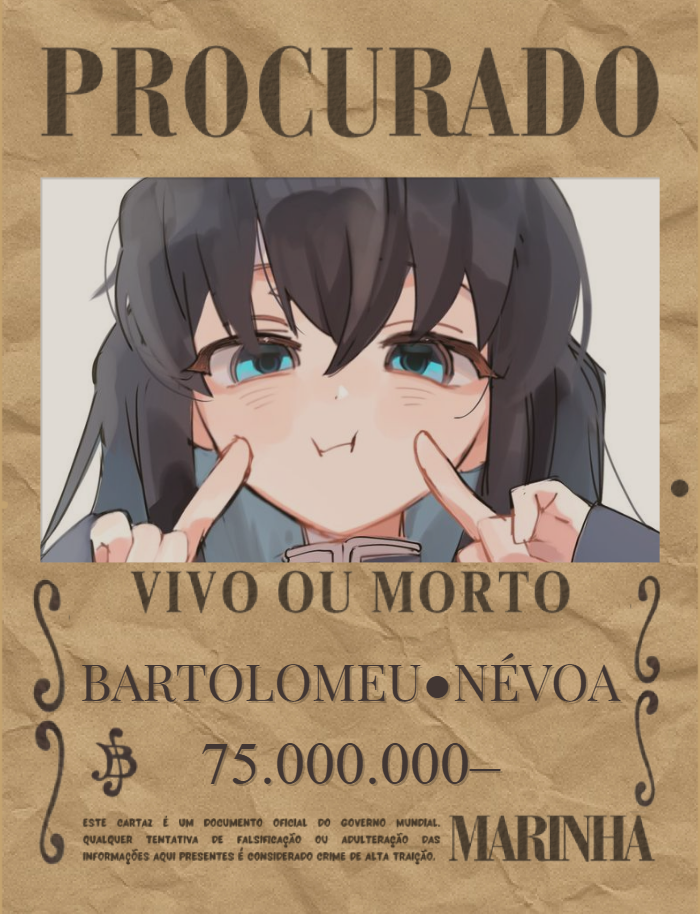
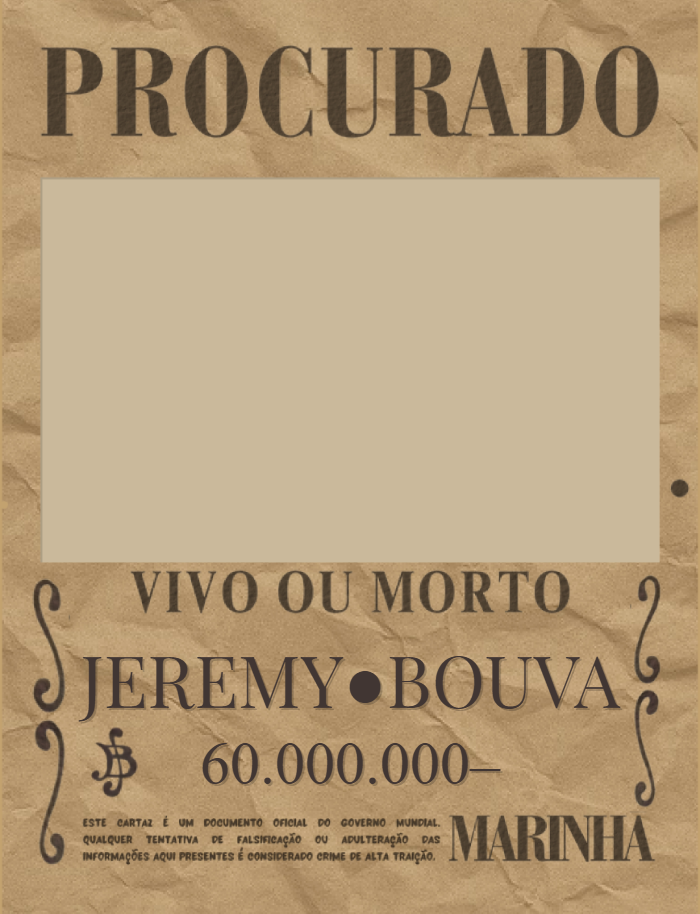
Site

diff --git a/aparencias.html b/aparencias.html
@@ -119,15 +119,6 @@
                     </div>
                     
                     <div class="gallery-item">
-                        <img src="assets\imagens\Personagens\Artur, o Gancho Negro.png" alt="Artur, o Gancho Negro" class="gallery-img">
-                        <div class="gallery-info">
-                            <div class="gallery-title">Artur, o Gancho Negro</div>
-                            <div class="gallery-subtitle"><a href="https://mortalkombat.fandom.com/wiki/Kabal" target="_blank">Kabal</a></div>
-                            <div class="gallery-id">NPC</div>
-                        </div>
-                    </div>
-                    
-                    <div class="gallery-item">
                         <img src="assets\imagens\Personagens\Ask D. Question.png" alt="Personagem Anônimo" class="gallery-img">
                         <div class="gallery-info">
                             <div class="gallery-title">Ask D. Question</div>
@@ -226,15 +217,6 @@
                             <div class="gallery-title">Aze Gan</div>
                             <div class="gallery-subtitle"><a href="https://xinyizhou1.artstation.com/projects/qe2xJn" target="_blank"><i>OC</i></a></div>
                             <div class="gallery-id">NPC: <a href="https://wa.link/e9vycf" target="_blank">8847 | 1</a></div>
-                        </div>
-                    </div>
-                    
-                    <div class="gallery-item">
-                        <img src="assets\imagens\Personagens\Bartolomeu Névoa.png" alt="Bartolomeu, o Névoa" class="gallery-img">
-                        <div class="gallery-info">
-                            <div class="gallery-title">Bartolomeu, o Névoa</div>
-                            <div class="gallery-subtitle"><a href="https://myanimelist.net/character/151147/Muichirou_Tokitou" target="_blank">Tokitō Muichirō</a></div>
-                            <div class="gallery-id">NPC</div>
                         </div>
                     </div>
                     
@@ -651,15 +633,6 @@
                         <div class="gallery-info">
                             <div class="gallery-title">Han</div>
                             <div class="gallery-subtitle"><a href="https://myanimelist.net/character/195734/Simo_H%C3%A4yh%C3%A4" target="_blank">Simo Häyhä</a></div>
-                            <div class="gallery-id">NPC</div>
-                        </div>
-                    </div>
-                    
-                    <div class="gallery-item">
-                        <img src="assets\imagens\Personagens\Grumo, o Esclarecido.png" alt="Personagem Anônimo" class="gallery-img">
-                        <div class="gallery-info">
-                            <div class="gallery-title">???</div>
-                            <div class="gallery-subtitle"><a href="https://bg3.wiki/wiki/Lump" target="_blank">Grumo, o Esclarecido</a></div>
                             <div class="gallery-id">NPC</div>
                         </div>
                     </div>
@@ -1273,15 +1246,6 @@
                             <div class="gallery-title">Skald</div>
                             <div class="gallery-subtitle"><i>IA</i></div>
                             <div class="gallery-id">Jogador(a): <a href="https://wa.link/7o11c8" target="_blank">8932 | 2</a></div>
-                        </div>
-                    </div>
-                    
-                    <div class="gallery-item">
-                        <img src="assets\imagens\Personagens\Slade Kane.png" alt="Slade Kane" class="gallery-img">
-                        <div class="gallery-info">
-                            <div class="gallery-title">Slade Kane</div>
-                            <div class="gallery-subtitle"><i>OC</i></div>
-                            <div class="gallery-id">NPC</div>
                         </div>
                     </div>
                     

diff --git a/cacadas.html b/cacadas.html
@@ -133,11 +133,11 @@
                 <div class="toggle-content">
                     <div class="bounty-grid" data-sea="east-blue">
                     <div class="bounty-card">
-                        <img src="assets\imagens\Caçadas\East Blue\Cartaz 1.png" alt="Artur, o Gancho Negro" class="bounty-image">
+                        <img src="assets\imagens\Caçadas\East Blue\Cartaz 1.png" alt="Beth" class="bounty-image">
                         <div class="bounty-info">
-                            <h3 class="bounty-name">Artur, o Gancho Negro</h3>
-                            <p class="bounty-value">125.000.000</p>
-                            <p class="bounty-location">Polestar</p>
+                            <h3 class="bounty-name">Beth</h3>
+                            <p class="bounty-value">75.000.000</p>
+                            <p class="bounty-location">Clockwork</p>
                         </div>
                     </div>
                     <div class="bounty-card">
@@ -165,11 +165,11 @@
                         </div>
                     </div>
                     <div class="bounty-card">
-                        <img src="assets\imagens\Caçadas\East Blue\Cartaz 5.png" alt="Bartolomeu, o Névoa" class="bounty-image">
+                        <img src="assets\imagens\Caçadas\East Blue\Cartaz 5.png" alt="Jeremy Bouva" class="bounty-image">
                         <div class="bounty-info">
-                            <h3 class="bounty-name">Bartolomeu, o Névoa</h3>
-                            <p class="bounty-value">75.000.000</p>
-                            <p class="bounty-location">Mirrorball</p>
+                            <h3 class="bounty-name">Jeremy Bouva</h3>
+                            <p class="bounty-value">60.000.000</p>
+                            <p class="bounty-location">Gecko</p>
                         </div>
                     </div>
                 </div>
